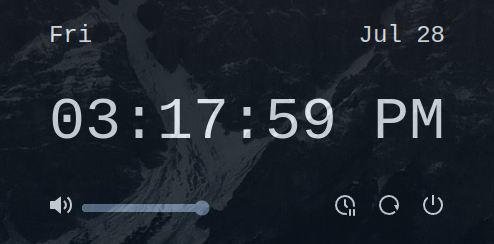
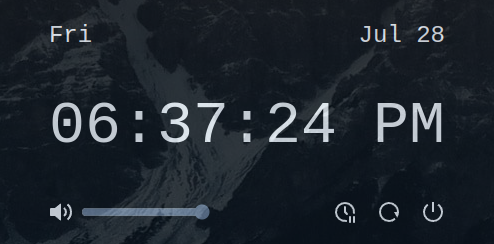
centered buttons

diff --git a/src/components/DashButton.tsx b/src/components/DashButton.tsx
@@ -12,7 +12,7 @@ export const DashButton: Component<Props> = ({
   children,
 }) => {
   return (
-    <div class="group relative w-max">
+    <div class="group relative w-max flex justify-center items-center">
       <button class="hover:cursor-pointer" onClick={onclick}>
         {children}
       </button>

diff --git a/src/App.tsx b/src/App.tsx
@@ -1,4 +1,4 @@
-import { createSignal, type Component } from "solid-js";
+import { type Component } from "solid-js";
 import { Today } from "./components/Today";
 import { Time } from "./components/Time";
 import { PowerManagement } from "./components/PowerManagement";
